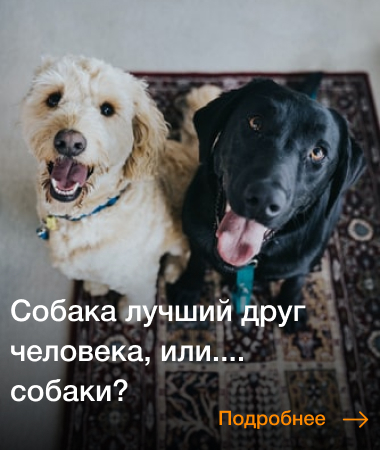
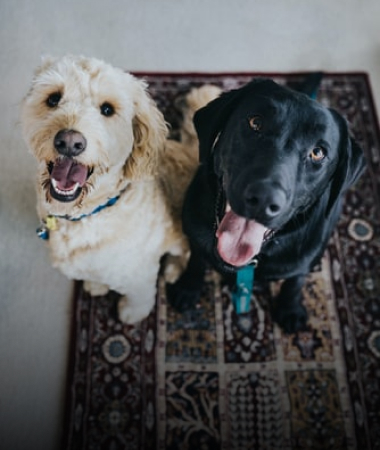
05.01.02

diff --git a/index.html b/index.html
@@ -19,7 +19,7 @@
             <rect y="18" width="29" height="3" rx="1"/>
           </svg>
         </button>
-
+        
         <img src="img/logo.png" class="header__logo_image" alt="Логотип приюта для животных Friendly House">
 
         <a class="header__phone" href="tel:88493003957" >8 (849) 300 - 39 - 57</a>
@@ -78,79 +78,123 @@
           <div class="project__left">
             <ul class="project__left_list">
               <li class="project__left_item">
-                <img src="img/project1.jpg" alt="" class="project__left_image">
+                <img src="img/project1.jpg" alt="Фотография новый дом для животных" class="project__left_image">
 
-                <h3 class="project__left_title">Новый дом для животных</h3>
+                <div class="project__left_description">
+                  <h3 class="project__left_title">Новый дом для животных</h3>
 
-                <p class="project__left_description">
-                  Приют появился практически одновременно с созданием Фонда в ...
-                </p>
+                  <p class="project__left_text">
+                    Приют появился практически одновременно с созданием Фонда в ...
+                  </p>
 
-                <a href="#" class="project__link">Подробнее</a>
+                  <a href="#" class="project__link">Подробнее</a>
+                </div>
               </li>
 
               <li class="project__left_item">
-                <img src="img/project2.jpg" alt="" class="project__left_image">
+                <img src="img/project2.jpg" alt="Фотография маленькие модники" class="project__left_image">
 
-                <h3 class="project__left_title">Маленькие модники</h3>
+                <div class="project__left_description">
+                  <h3 class="project__left_title">Маленькие модники</h3>
+                  
+                  <p class="project__left_text">
+                    Наши котики и собачки тоже любят наряжаться, чтобы красиво выглядеть ...
+                  </p>
 
-                <p class="project__left_description">
-                  Наши котики и собачки тоже любят наряжаться, чтобы красиво выглядеть ...
-                </p>
-
-                <a href="#" class="project__link">Подробнее</a>
+                  <a href="#" class="project__link">Подробнее</a>
+                </div>                
               </li>
 
               <li class="project__left_item">
-                <img src="img/project3.jpg" alt="" class="project__left_image">
+                <img src="img/project3.jpg" alt="Фотография Поиграй со мной!" class="project__left_image">
 
-                <h3 class="project__left_title">Поиграй со мной!</h3>
+                <div class="project__left_description">
+                  <h3 class="project__left_title">Поиграй со мной!</h3>
+                  
+                  <p class="project__left_text">
+                    Новая программа нашего приюта “Поиграй со мной”. Приводите своих ...
+                  </p>
 
-                <p class="project__left_description">
-                  Новая программа нашего приюта “Поиграй со мной”. Приводите своих ...
-
-                </p>
-
-                <a href="#" class="project__link">Подробнее</a>
+                  <a href="#" class="project__link">Подробнее</a>
+                </div>
               </li>
 
               <li class="project__left_item">
-                <img src="img/project4.jpg" alt="" class="project__left_image">
+                <img src="img/project4.jpg" alt="Фотография Конкурс “Лучшее фото”" class="project__left_image">
 
-                <h3 class="project__left_title">Конкурс “Лучшее фото”</h3>
+                <div class="project__left_description">
+                  <h3 class="project__left_title">Конкурс “Лучшее фото”</h3>
+                  
+                  <p class="project__left_text">
+                    Приходи к нам в Friendly House и делай классные фотографии наших животн...
+                  </p>
 
-                <p class="project__left_description">
-                  Приходи к нам в Friendly House и делай классные фотографии наших животн...
-                </p>
-
-                <a href="#" class="project__link">Подробнее</a>
+                  <a href="#" class="project__link">Подробнее</a>
+                </div>                
               </li>
             </ul>
           </div>
 
           <div class="project__right">
-            <p class="project__right_description">
-              Собака лучший друг человека, или.... собаки?
-            </p>
-
-            <a href="#" class="project__link">Подробнее</a>
+            <div class="project__right_banner">
+              <p class="project__right_description">
+                Собака лучший друг человека, или.... собаки?
+              </p>
+  
+              <a href="#" class="project__link">Подробнее</a>
+            </div>
 
             <h3 class="project__right_title">Больше проектов</h3>
 
             <div class="project__right_wrapper">
               <div class="project__right_content">
-                <a href="#" class="project__right_content_link"></a>
-                <a href="#" class="project__right_content_link"></a>
-                <a href="#" class="project__right_content_link"></a>
-                <a href="#" class="project__right_content_link"></a>
-                <a href="#" class="project__right_content_link"></a>
-                <a href="#" class="project__right_content_link"></a>
-                <a href="#" class="project__right_content_link"></a>
-                <a href="#" class="project__right_content_link"></a>
-                <a href="#" class="project__right_content_link"></a>
-                <a href="#" class="project__right_content_link"></a>
-                <a href="#" class="project__right_content_link"></a>
-                <a href="#" class="project__right_content_link"></a>
+                <a href="#" class="project__right_content_link">
+                  <img src="img/project6.jpg" alt="" class="project__right_content_image">
+                </a>
+
+                <a href="#" class="project__right_content_link">
+                  <img src="img/project7.jpg" alt="" class="project__right_content_image">
+                </a>
+
+                <a href="#" class="project__right_content_link">
+                  <img src="img/project8.jpg" alt="" class="project__right_content_image">
+                </a>
+
+                <a href="#" class="project__right_content_link">
+                  <img src="img/project9.jpg" alt="" class="project__right_content_image">
+                </a>
+
+                <a href="#" class="project__right_content_link">
+                  <img src="img/project10.jpg" alt="" class="project__right_content_image">
+                </a>
+
+                <a href="#" class="project__right_content_link">
+                  <img src="img/project11.jpg" alt="" class="project__right_content_image">
+                </a>
+
+                <a href="#" class="project__right_content_link">
+                  <img src="img/project12.jpg" alt="" class="project__right_content_image">
+                </a>
+
+                <a href="#" class="project__right_content_link">
+                  <img src="img/project13.jpg" alt="" class="project__right_content_image">
+                </a>
+
+                <a href="#" class="project__right_content_link">
+                  <img src="img/project14.jpg" alt="" class="project__right_content_image">
+                </a>
+
+                <a href="#" class="project__right_content_link">
+                  <img src="img/project15.jpg" alt="" class="project__right_content_image">
+                </a>
+
+                <a href="#" class="project__right_content_link">
+                  <img src="img/project16.jpg" alt="" class="project__right_content_image">
+                </a>
+
+                <a href="#" class="project__right_content_link">
+                  <img src="img/project17.jpg" alt="" class="project__right_content_image">
+                </a>                
               </div>
             </div>
           </div>

diff --git a/css/project.css b/css/project.css
@@ -4,6 +4,7 @@
 
 .project__wrapper {
   display: flex;
+  justify-content: space-between;
 }
 
 .project__left_list {
@@ -14,4 +15,84 @@
 
 .project__left_item {
   display: flex;
+}
+
+.project__left_image {
+  margin-right: 20px;
+}
+
+.project__left_description {
+  max-width: 380px;
+  width: 100%;
+}
+
+.project__left_title {
+  font-weight: 500;
+  font-size: 30px;
+  line-height: 40px;
+  margin-bottom: 15px;
+}
+
+.project__left_text {
+  font-size: 20px;
+  line-height: 30px;
+  margin-bottom: 20px;
+}
+
+.project__link {
+  font-weight: 500;
+  font-size: 20px;
+  line-height: 26px;
+  color: var(--orange-color);
+}
+
+.project__link:after {
+  content: "";
+  display: inline-block;
+  width: 26px;
+  height: 16px;
+  background-image: url("../img/arrow.svg");
+  transform: translate(15px, 2px);
+}
+
+.project__right_banner {
+  position: relative;
+  width: 380px;
+  height: 450px;
+  background-image: url('../img/project5.jpg');
+  background-repeat: no-repeat;
+  background-size: cover;
+  margin-bottom: 52px;
+}
+
+.project__right_description {
+  position: absolute;
+  bottom: 40px;
+  left: 10px;
+  right: 10px;
+  font-weight: 500;
+  font-size: 30px;
+  line-height: 40px;
+  color: #fff;
+}
+
+.project__right_banner .project__link {
+  position: absolute;
+  bottom: 15px;
+  right: 24px;
+}
+
+.project__right_title {
+  font-weight: 500;
+  font-size: 20px;
+  line-height: 26px;
+  margin-bottom: 22px;
+}
+
+.project__right_content {
+  display: flex;
+  flex-wrap: wrap;
+  gap: 22px;
+  max-width: 400px;
+  width: 100%;
 }

diff --git a/css/about.css b/css/about.css
@@ -31,6 +31,7 @@
 .about__link {
   font-weight: 500;
   color: var(--orange-color);
+  padding-right: 15px;
 }
 
 .about__link:after {
@@ -39,5 +40,5 @@
   width: 26px;
   height: 16px;
   background-image: url("../img/arrow.svg");
-  transform: translateX(20px);
+  transform: translate(15px, 2px);
 }
